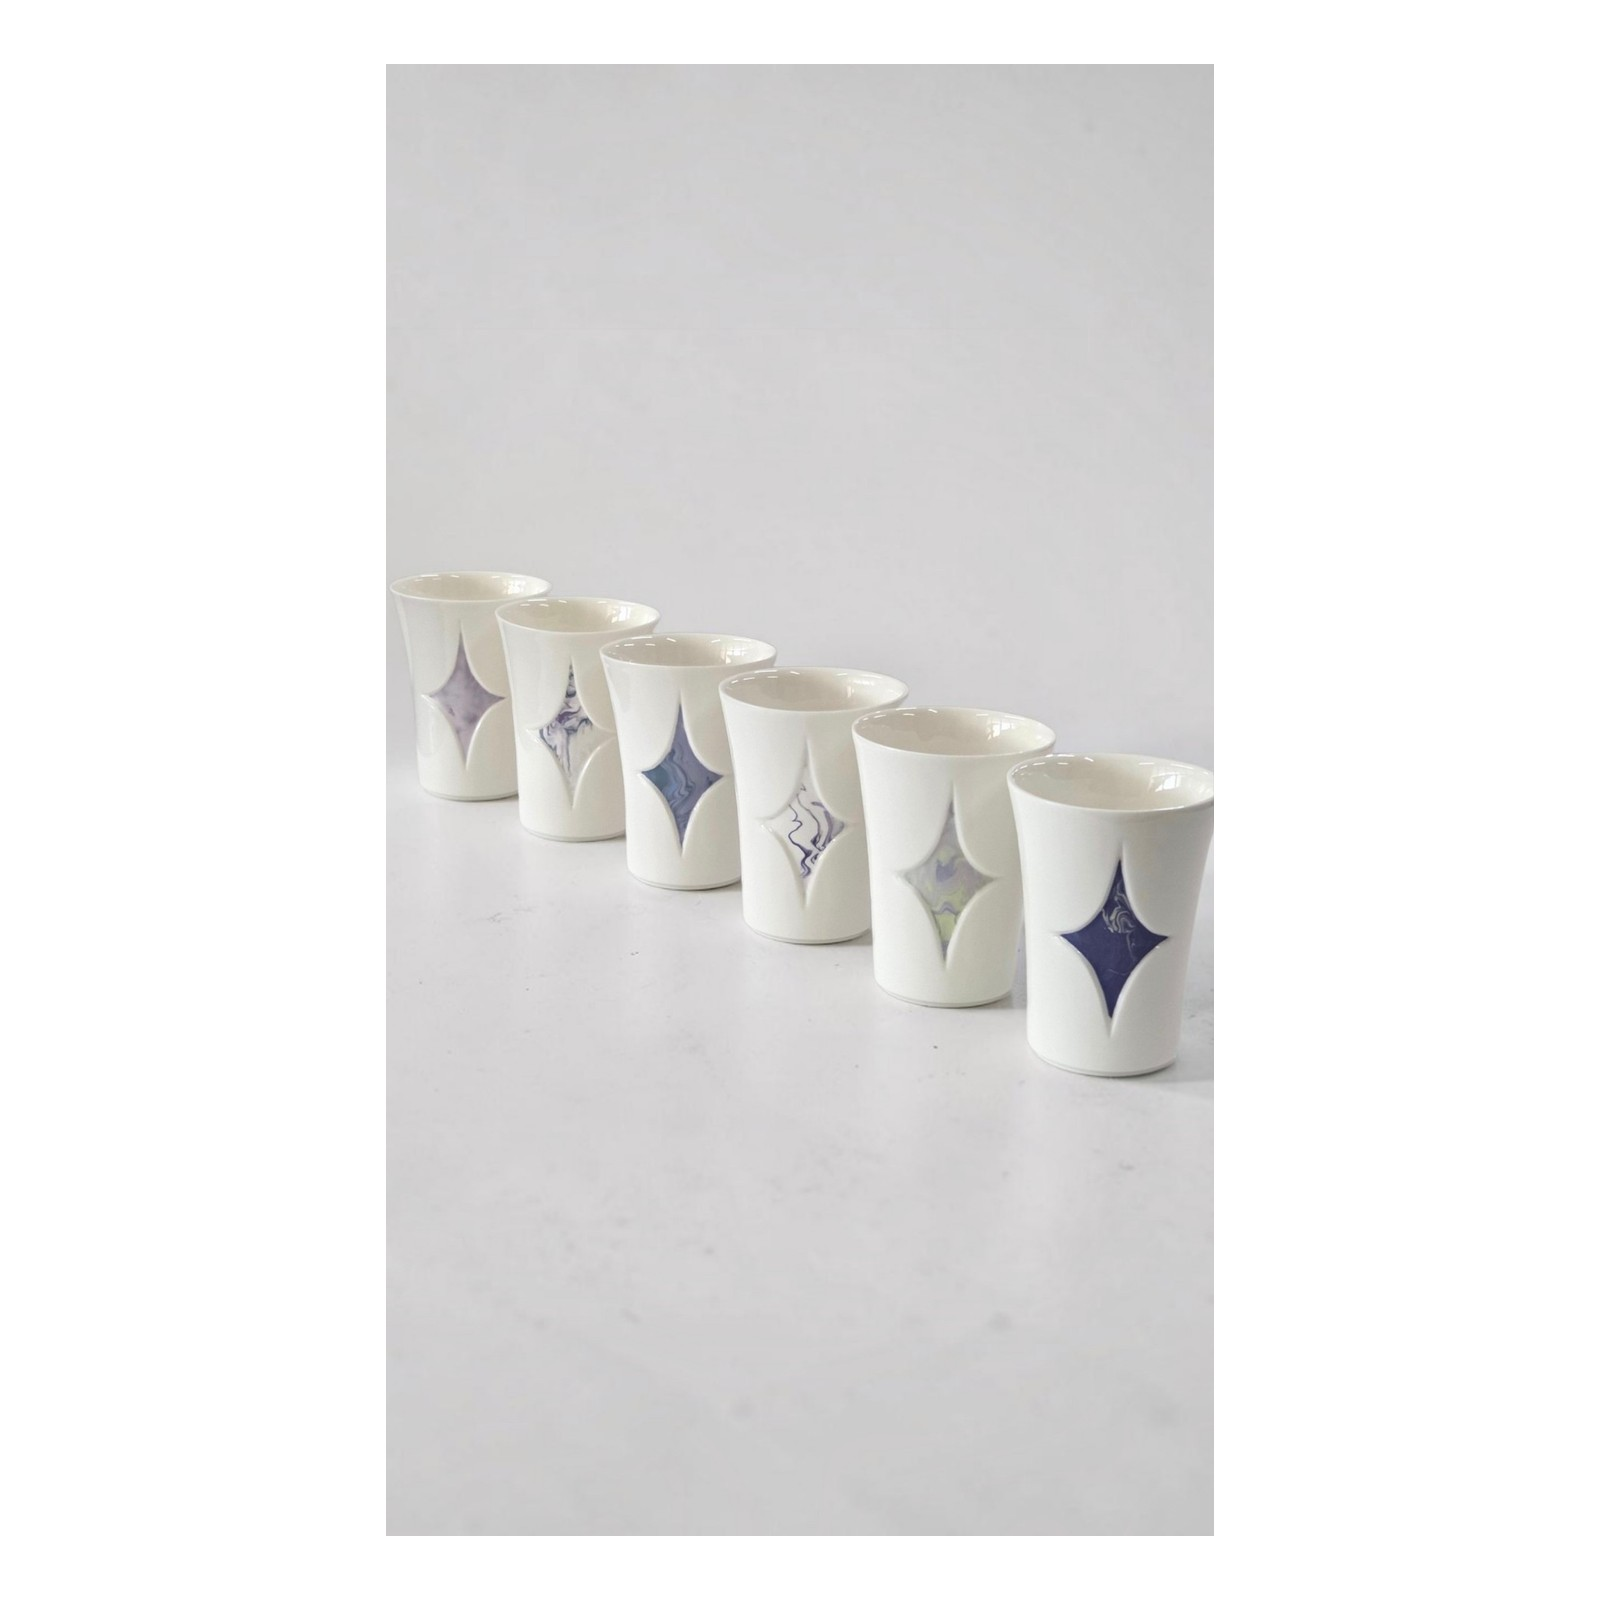
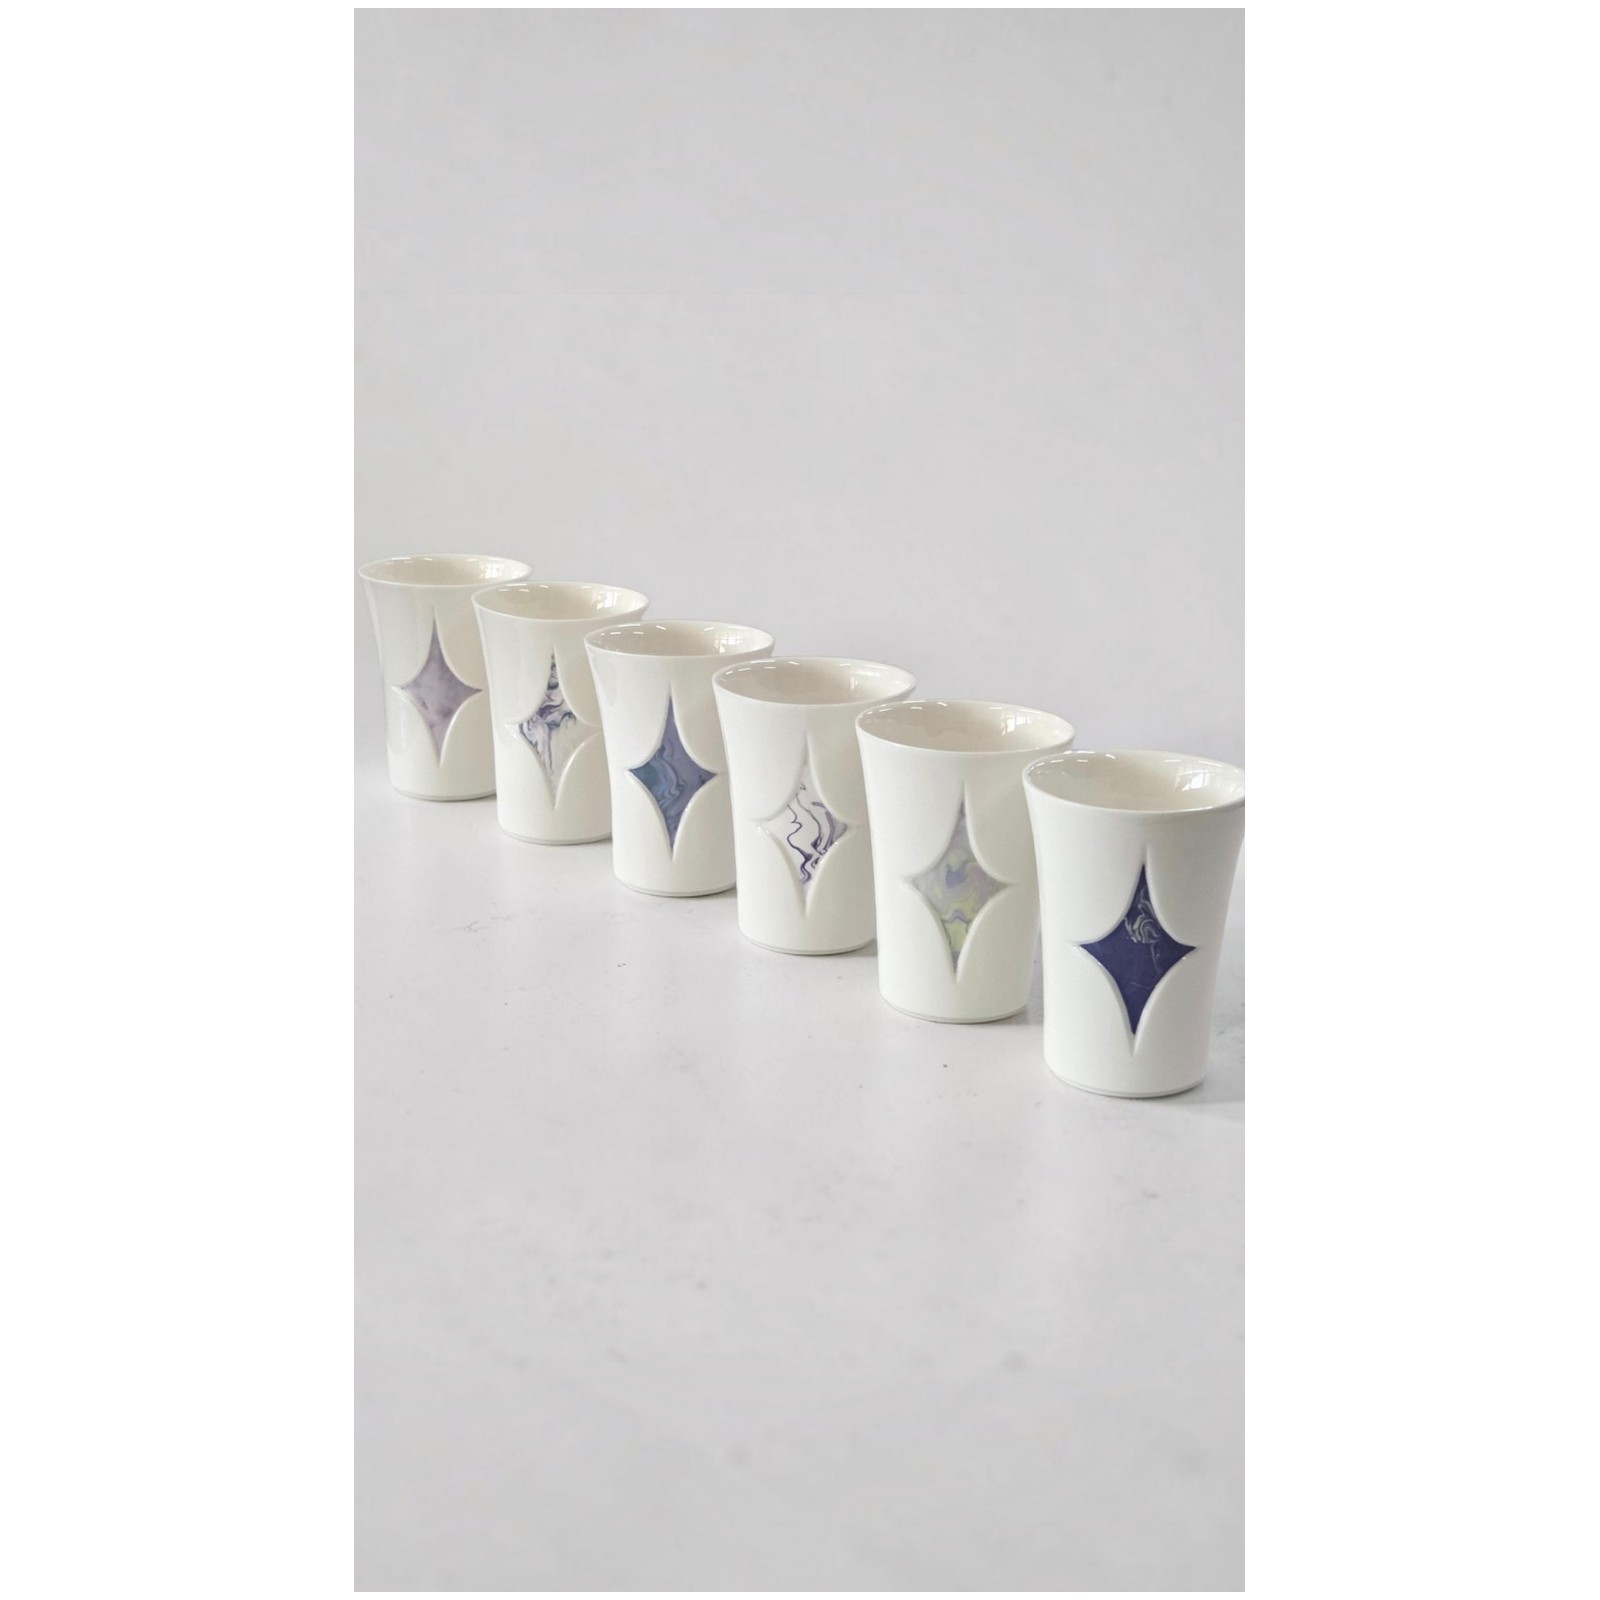
상세페이지 사진 위아래 여백 줄이기: 원본 비율 detail 이미지 도입
기존엔 카드/리스트용으로 만든 정사각 패딩 사진(1600x1600, 여백 baked-in)을
상세페이지에서도 그대로 썼는데, 가로로 넓은 원본 사진일수록 위아래에 큰
흰 여백이 생겼음.

- 각 상품마다 여백 없는 원본 비율 그대로의 product-XX-detail.jpg를 추가
  생성(최대 변 1600px, 크롭/패딩 없음)
- Work 타입에 detailImage/detailWidth/detailHeight 필드 추가
- ZoomableWorkImage: 상세페이지 메인 사진과 확대(라이트박스) 모두
  detailImage를 원본 비율 그대로(next/image width/height, object-contain
  없이) 보여주도록 변경. 카드/리스트는 기존 정사각 패딩 사진 그대로 유지.

Changed region(s): [[0.2188, 0.0, 0.7812, 1.0]]

diff --git a/src/lib/works.ts b/src/lib/works.ts
@@ -22,7 +22,10 @@ export type Work = {
   dimensions: string; // e.g. "지름 12cm x 높이 8cm"
   glaze: string; // 유약/색감
   paletteIndex: number; // image가 없을 때 쓰는 플레이스홀더 그라디언트 선택용
-  image?: string; // public/ 기준 실제 상품 사진 경로
+  image?: string; // public/ 기준 실제 상품 사진 경로 (카드/리스트용 정사각 패딩 버전)
+  detailImage?: string; // 상세페이지용 원본 비율 사진(여백 없음)
+  detailWidth?: number; // detailImage의 실제 픽셀 가로
+  detailHeight?: number; // detailImage의 실제 픽셀 세로
   category: Category; // 형태 기준 자동 분류 (COLLECTION 페이지 필터용)
   soldOut?: boolean;
   material: string; // 재질
@@ -59,6 +62,9 @@ const rawWorks: WorkInput[] = [
     glaze: "마블 유약 (라벤더 톤)",
     paletteIndex: 0,
     image: "/works/product-01.jpg",
+    detailImage: "/works/product-01-detail.jpg",
+    detailWidth: 900,
+    detailHeight: 1600,
     category: "CUPS & MUGS",
   },
   {
@@ -73,6 +79,9 @@ const rawWorks: WorkInput[] = [
     glaze: "마블 유약 (그레이 톤)",
     paletteIndex: 1,
     image: "/works/product-02.jpg",
+    detailImage: "/works/product-02-detail.jpg",
+    detailWidth: 900,
+    detailHeight: 1600,
     category: "CUPS & MUGS",
   },
   {
@@ -87,6 +96,9 @@ const rawWorks: WorkInput[] = [
     glaze: "마블 유약 (그레이 톤)",
     paletteIndex: 2,
     image: "/works/product-03.jpg",
+    detailImage: "/works/product-03-detail.jpg",
+    detailWidth: 900,
+    detailHeight: 1600,
     category: "OBJECTS",
   },
   {
@@ -101,6 +113,9 @@ const rawWorks: WorkInput[] = [
     glaze: "청화 (코발트 안료)",
     paletteIndex: 3,
     image: "/works/product-04.jpg",
+    detailImage: "/works/product-04-detail.jpg",
+    detailWidth: 1512,
+    detailHeight: 1512,
     category: "BOWLS & PLATES",
   },
   {
@@ -115,6 +130,9 @@ const rawWorks: WorkInput[] = [
     glaze: "청화 (코발트 안료)",
     paletteIndex: 4,
     image: "/works/product-05.jpg",
+    detailImage: "/works/product-05-detail.jpg",
+    detailWidth: 1600,
+    detailHeight: 1600,
     category: "BOWLS & PLATES",
   },
   {
@@ -129,6 +147,9 @@ const rawWorks: WorkInput[] = [
     glaze: "마블 유약 (블루 톤)",
     paletteIndex: 5,
     image: "/works/product-07.jpg",
+    detailImage: "/works/product-07-detail.jpg",
+    detailWidth: 1512,
+    detailHeight: 1512,
     category: "VASES & JARS",
   },
   {
@@ -143,6 +164,9 @@ const rawWorks: WorkInput[] = [
     glaze: "청화 (코발트 안료)",
     paletteIndex: 6,
     image: "/works/product-08.jpg",
+    detailImage: "/works/product-08-detail.jpg",
+    detailWidth: 1600,
+    detailHeight: 1067,
     category: "BOWLS & PLATES",
   },
   {
@@ -157,6 +181,9 @@ const rawWorks: WorkInput[] = [
     glaze: "마블 유약 (파스텔 톤)",
     paletteIndex: 7,
     image: "/works/product-09.jpg",
+    detailImage: "/works/product-09-detail.jpg",
+    detailWidth: 1600,
+    detailHeight: 1067,
     category: "CUPS & MUGS",
   },
   {
@@ -171,6 +198,9 @@ const rawWorks: WorkInput[] = [
     glaze: "마블 유약 + 블루 라인",
     paletteIndex: 0,
     image: "/works/product-10.jpg",
+    detailImage: "/works/product-10-detail.jpg",
+    detailWidth: 1572,
+    detailHeight: 1047,
     category: "BOWLS & PLATES",
   },
   {
@@ -185,6 +215,9 @@ const rawWorks: WorkInput[] = [
     glaze: "마블 유약",
     paletteIndex: 1,
     image: "/works/product-11.jpg",
+    detailImage: "/works/product-11-detail.jpg",
+    detailWidth: 1600,
+    detailHeight: 1066,
     category: "OBJECTS",
   },
   {
@@ -199,6 +232,9 @@ const rawWorks: WorkInput[] = [
     glaze: "마블 유약 (라이트 그레이)",
     paletteIndex: 2,
     image: "/works/product-13.jpg",
+    detailImage: "/works/product-13-detail.jpg",
+    detailWidth: 1600,
+    detailHeight: 1066,
     category: "CUPS & MUGS",
   },
   {
@@ -212,6 +248,9 @@ const rawWorks: WorkInput[] = [
     glaze: "마블 유약 (틸·차콜 톤)",
     paletteIndex: 3,
     image: "/works/product-14.jpg",
+    detailImage: "/works/product-14-detail.jpg",
+    detailWidth: 1600,
+    detailHeight: 1066,
     category: "CUPS & MUGS",
   },
   {
@@ -226,6 +265,9 @@ const rawWorks: WorkInput[] = [
     glaze: "청화 (코발트 안료)",
     paletteIndex: 4,
     image: "/works/product-15.jpg",
+    detailImage: "/works/product-15-detail.jpg",
+    detailWidth: 1600,
+    detailHeight: 1067,
     category: "BOWLS & PLATES",
   },
 ];

diff --git a/src/components/ZoomableWorkImage.tsx b/src/components/ZoomableWorkImage.tsx
@@ -1,10 +1,13 @@
 "use client";
 
 import { useEffect, useRef, useState } from "react";
+import Image from "next/image";
 import WorkImage from "@/components/WorkImage";
 import type { Work } from "@/lib/works";
 
 // 상세페이지 메인 사진 전용: 클릭하면 전체화면으로 확대해서 볼 수 있다.
+// 카드/리스트용 정사각 패딩 사진 대신, 여백 없는 원본 비율 detailImage를
+// 써서 사진 위아래(또는 좌우)에 불필요한 흰 여백이 생기지 않도록 한다.
 // 모바일 뒤로가기(popstate)를 눌렀을 때 상세페이지 자체를 벗어나지 않고
 // 라이트박스만 닫히도록 히스토리에 상태를 하나 쌓아둔다.
 export default function ZoomableWorkImage({ work }: { work: Work }) {
@@ -48,20 +51,36 @@ export default function ZoomableWorkImage({ work }: { work: Work }) {
     // eslint-disable-next-line react-hooks/exhaustive-deps
   }, [open]);
 
+  const hasDetailImage =
+    work.detailImage && work.detailWidth && work.detailHeight;
+
   return (
     <>
       <button
         type="button"
         onClick={openLightbox}
         aria-label="사진 확대해서 보기"
-        className="relative mt-5 aspect-square w-full overflow-hidden cursor-zoom-in block"
+        className="relative mt-5 w-full overflow-hidden cursor-zoom-in block"
       >
-        <WorkImage
-          paletteIndex={work.paletteIndex}
-          title={work.title}
-          image={work.image}
-          className={`h-full w-full ${work.soldOut ? "grayscale" : ""}`}
-        />
+        {hasDetailImage ? (
+          <Image
+            src={work.detailImage!}
+            alt={work.title}
+            width={work.detailWidth}
+            height={work.detailHeight}
+            sizes="(min-width: 640px) 640px, 100vw"
+            className={`w-full h-auto ${work.soldOut ? "grayscale" : ""}`}
+          />
+        ) : (
+          <div className="relative aspect-square w-full">
+            <WorkImage
+              paletteIndex={work.paletteIndex}
+              title={work.title}
+              image={work.image}
+              className={`h-full w-full ${work.soldOut ? "grayscale" : ""}`}
+            />
+          </div>
+        )}
         {work.soldOut && (
           <div className="absolute inset-0 bg-black/45 flex items-center justify-center">
             <span className="text-white text-sm tracking-[0.2em]">
@@ -93,7 +112,7 @@ export default function ZoomableWorkImage({ work }: { work: Work }) {
             <WorkImage
               paletteIndex={work.paletteIndex}
               title={work.title}
-              image={work.image}
+              image={work.detailImage ?? work.image}
               className="h-full w-full"
             />
           </div>
